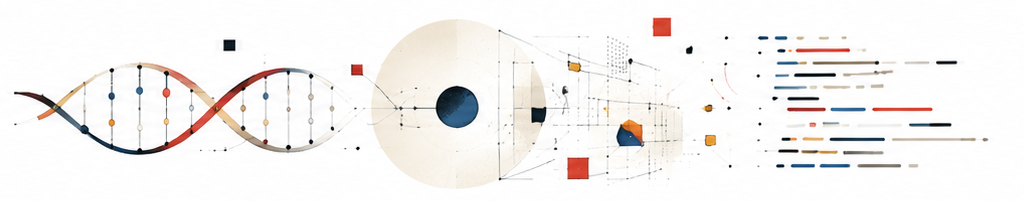
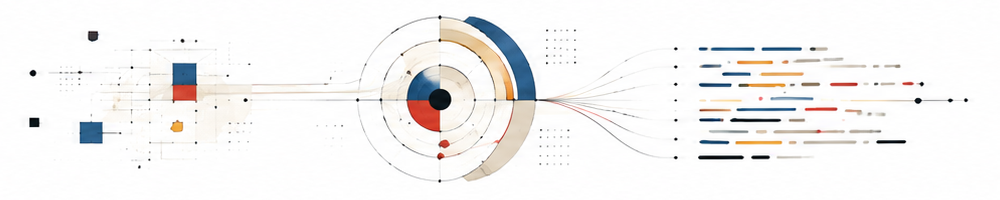
wip

diff --git a/public/css/default.css b/public/css/default.css
@@ -1,4 +1,4 @@
-/* code-from-spec: ROOT/design/default/stylesheet@qf7id348gt8Gb3LZEY_SLbeoxiw */
+/* code-from-spec: ROOT/design/default/stylesheet@ZbqrYBtL83aa8G2aasFNmLuy02c */
 
 .container {
   max-width: 720px;
@@ -126,7 +126,7 @@ img {
   }
 
   main {
-    padding-top: 24px;
+    padding-top: 10px;
     padding-bottom: 0;
   }
 }

diff --git a/public/css/baseline.css b/public/css/baseline.css
@@ -1,4 +1,4 @@
-/* code-from-spec: ROOT/design/baseline@EnRYmAH_P3y5ZlX8FFsP9qdbAPg */
+/* code-from-spec: ROOT/design/baseline@kC23xGF0SLWkZl5enhkrfUVafqU */
 
 :root {
   --color-text: #1a1a1a;
@@ -32,7 +32,7 @@ h3,
 h4,
 h5,
 h6 {
-  margin-top: 1.5em;
+  margin-top: 1.2em;
   margin-bottom: 0.5em;
   line-height: 1.3;
 }

diff --git a/code-from-spec/design/default/stylesheet/_node.md b/code-from-spec/design/default/stylesheet/_node.md
@@ -62,7 +62,7 @@ The stylesheet must cover:
 10. **Responsive** — at max-width 768px: container
    padding 16px, header stacks vertically
    (flex-direction column, align flex-start, 12px gap),
-   nav wraps (16px gap), main padding 24px 0.
+   nav wraps (16px gap), main padding 10px 0.
 
 Place the artifact tag as a CSS comment on the first
 line.

diff --git a/code-from-spec/design/baseline/_node.md b/code-from-spec/design/baseline/_node.md
@@ -39,7 +39,7 @@ The stylesheet must cover:
    described above.
 
 3. **Typography** — heading sizes and line-height from
-   the design values. Headings have margin-top 1.5em,
+   the design values. Headings have margin-top 1.2em,
    margin-bottom 0.5em. Paragraphs have margin-top 0,
    margin-bottom 1em.
 
